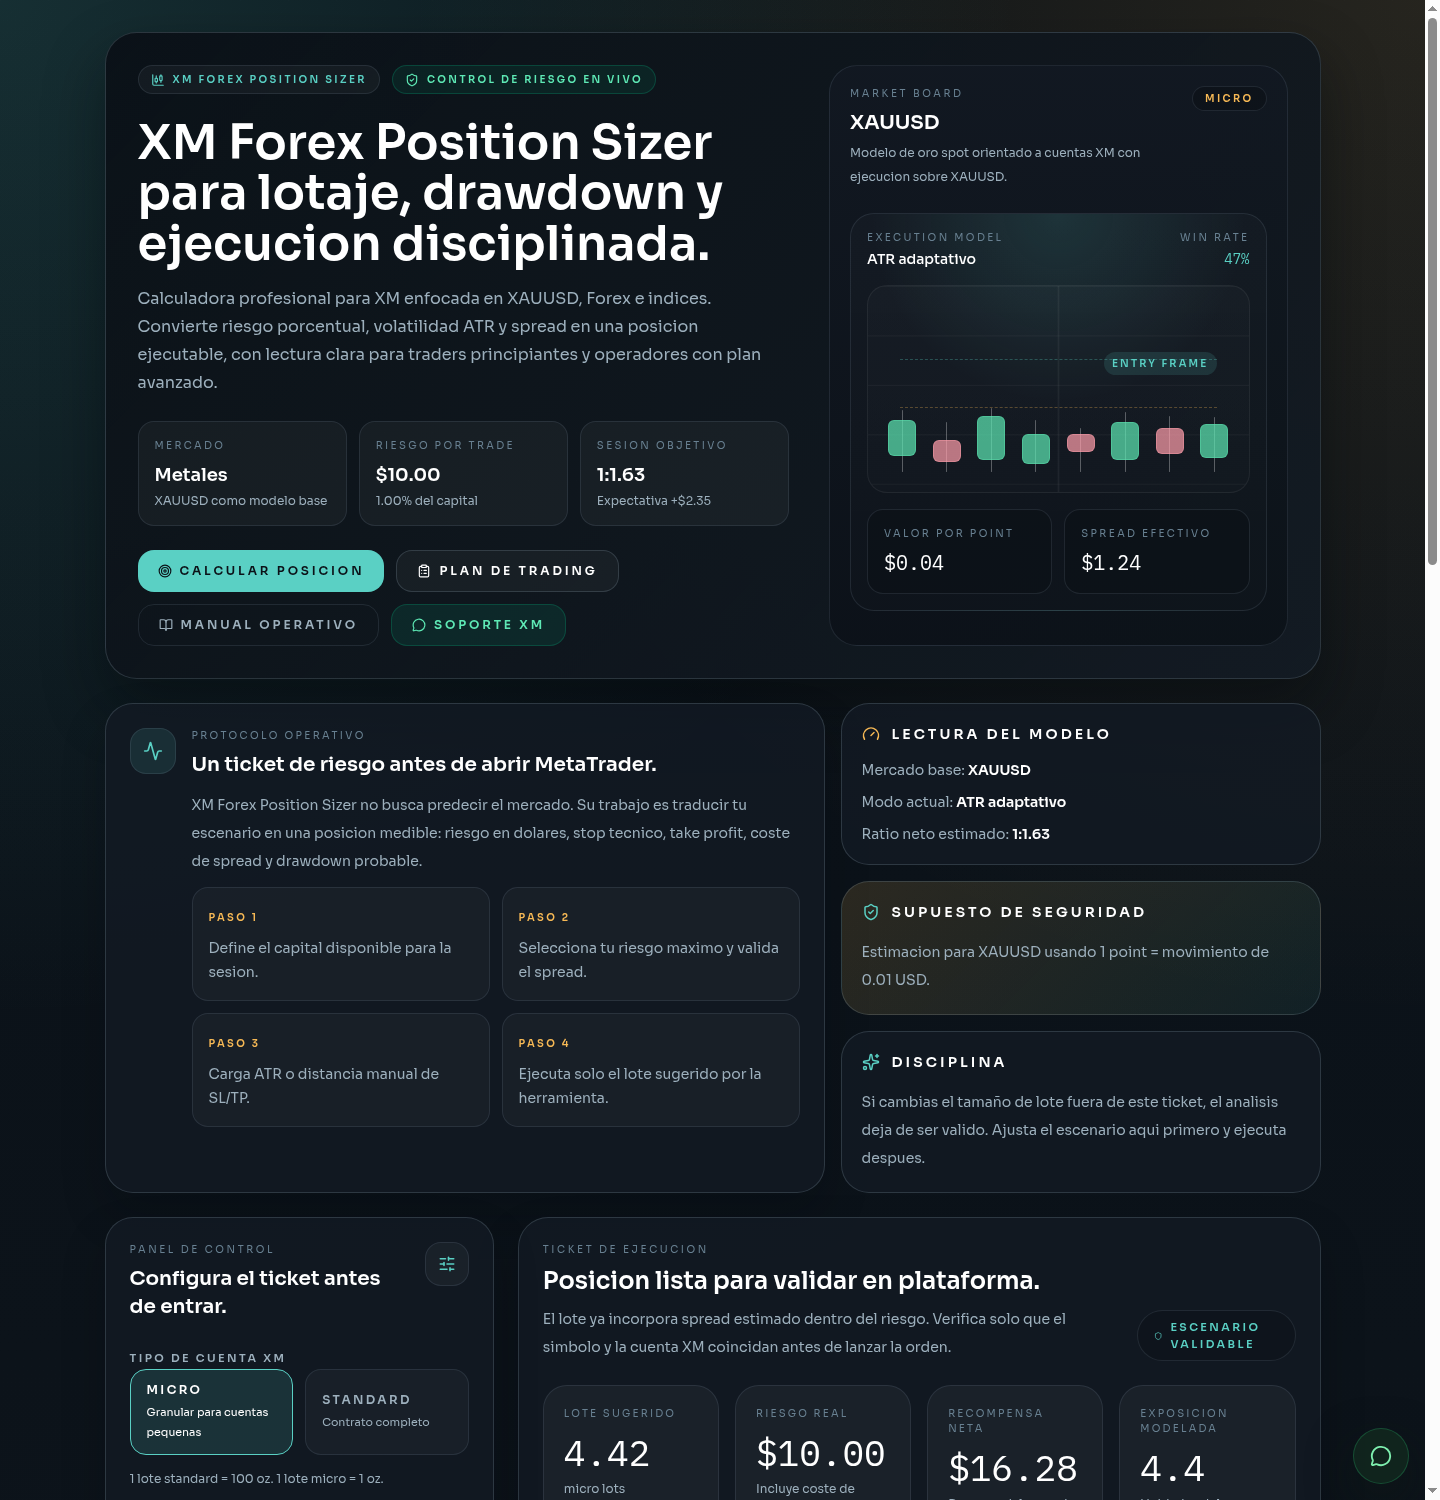
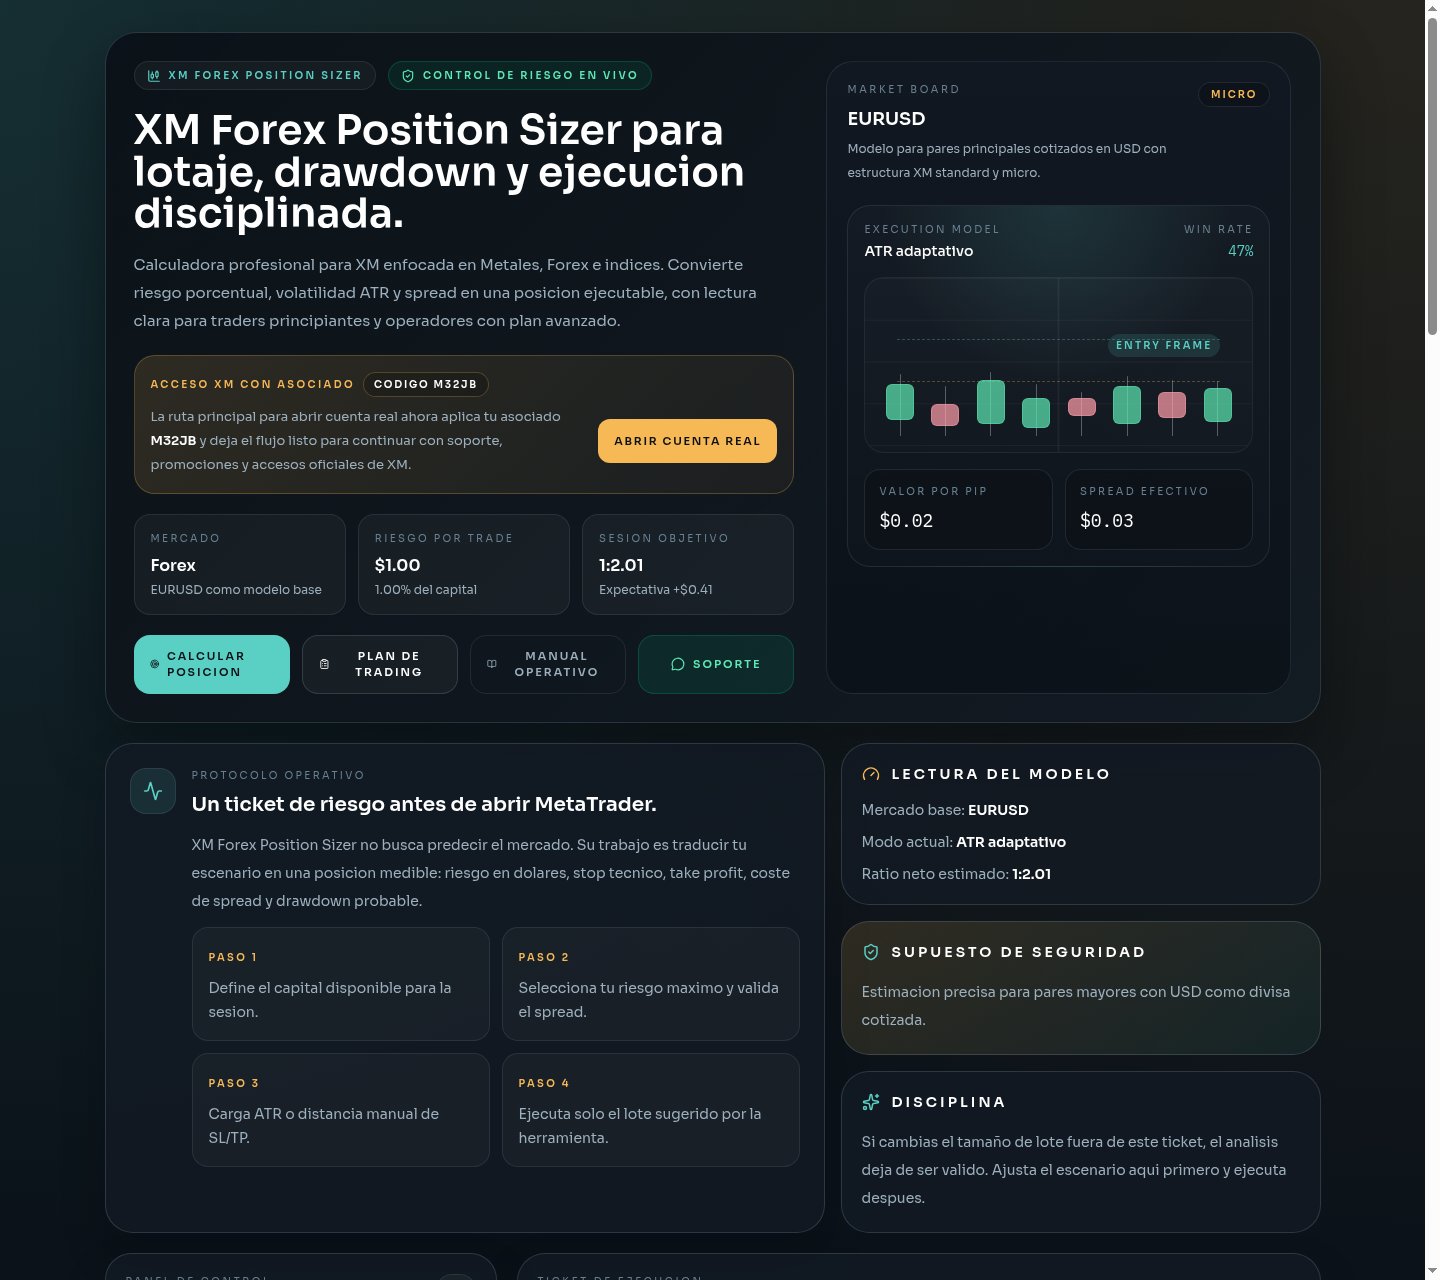
Actualizando el readme

diff --git a/README.md b/README.md
@@ -1,57 +1,74 @@
 # XM Forex Position Sizer
 
-Calculadora web para traders que operan con XM y necesitan convertir un escenario de mercado en un ticket de riesgo ejecutable. La herramienta estima lote sugerido, stop loss, take profit, coste de spread, drawdown probable, expectativa y progreso hacia una meta de capital.
+Calculadora web pública para traders que operan con XM y necesitan convertir un escenario de mercado en un ticket de riesgo ejecutable. La app estima lote sugerido, stop loss, take profit, coste de spread, drawdown probable, expectativa y ritmo necesario para llegar a una meta de capital.
 
 Sitio publicado: [xmsizer.vercel.app](https://xmsizer.vercel.app/)
 
-![Vista principal](./public/preview-desktop.png)
+## Vista actual
 
-![Vista móvil](./public/preview-mobile.png)
+![Vista principal desktop](./public/preview-desktop.png)
 
-## Enfoque del proyecto
+![Vista principal móvil](./public/preview-mobile.png)
 
-- Branding unificado como `XM Forex Position Sizer` en interfaz, reporte copiable, metadatos y despliegue.
-- Diseño orientado a terminal de trading: lectura rápida, contraste alto, métricas clave arriba y acciones operativas visibles.
-- Flujo de trabajo separado por ventanas completas para `Plan de trading` y `Manual operativo`, sin modales superpuestos al dashboard.
-- Soporte para cuentas XM `micro` y `standard`.
-- Modelos base por mercado:
-  - `Forex`: referencia tipo `EURUSD`.
-  - `Metales`: referencia tipo `XAUUSD`.
-  - `Índices`: referencia tipo `US30`.
-- SEO, Open Graph, Twitter Cards, favicon, `robots.txt`, `sitemap.xml`, `manifest` y cabeceras de seguridad para Vercel.
+## Qué es esta herramienta
+
+- Es una herramienta de acceso libre, sin backend y sin registro obligatorio.
+- Usa `XM Forex Position Sizer` como marca unificada en interfaz, metadatos, Open Graph y despliegue.
+- Está orientada a cuentas XM `micro` y `standard`.
+- Trabaja con tres perfiles base de mercado:
+  - `Metales`: referencia `XAUUSD`.
+  - `Forex`: referencia `EURUSD`.
+  - `Índices`: referencia `US30`.
+- Separa la experiencia en tres capas:
+  - `Dashboard` para cálculo operativo.
+  - `Plan de trading` para fijar capital, riesgo y objetivo mensual.
+  - `Manual operativo` para explicar el uso y los errores comunes.
+- Incluye un `Directorio XM` con presentación de XM, accesos oficiales y rutas de apoyo.
 
 ## Qué calcula
 
-- Riesgo por trade en USD a partir del capital y porcentaje de riesgo.
+- Riesgo por trade en USD a partir de capital y porcentaje de riesgo.
 - Lote sugerido considerando spread estimado dentro del riesgo.
-- Stop loss y take profit desde ATR o desde un modo manual.
+- Stop loss y take profit desde `ATR adaptativo` o modo `Manual`.
 - Ratio técnico y ratio neto.
 - Coste del spread y reward neto.
-- Drawdown probable ante una racha de pérdidas.
+- Drawdown probable ante rachas de pérdidas.
 - Kelly sugerido, expectativa por trade y trades estimados para llegar a la meta.
-- Presupuesto diario de pérdida según el plan de trading guardado.
+- Presupuesto diario de pérdida según el plan guardado.
 
-## Flujo de uso actual
+## Flujo de uso
 
-1. Abre `Plan de trading` para fijar capital, riesgo base, mercado, cuenta y meta mensual.
-2. Guarda ese perfil en local y aplícalo al dashboard cuando quieras reiniciar la sesión desde una base consistente.
-3. Ajusta en el panel principal el escenario vivo: `ATR`, `spread`, modo `ATR` o `Manual`, `win rate` y objetivo de equity.
-4. Revisa ticket, analítica de supervivencia y bitácora antes de ejecutar.
-5. Usa `Manual operativo` como referencia extensa del flujo, fórmulas y errores comunes.
+1. Define el plan base en `Plan de trading`.
+2. Aplica ese perfil al dashboard para arrancar cada sesión desde una base consistente.
+3. Ajusta mercado, tipo de cuenta, `ATR`, spread, win rate y modo de cálculo.
+4. Revisa ticket, guardrails, analítica de supervivencia y bitácora.
+5. Si necesitas contexto comercial u operativo de XM, abre el `Directorio XM`.
 
-## Para quién sirve
+## Enlaces XM con código de socio
 
-### Trader principiante
+La aplicación expone estas rutas afiliadas desde [`src/lib/xmAffiliate.ts`](./src/lib/xmAffiliate.ts) bajo el código de socio `M32JB`.
 
-- Operar cuenta micro con control más fino.
-- Aprender a no sobredimensionar una posición.
-- Validar el impacto real del spread antes de abrir la orden.
+### Inicio y cuentas
 
-### Trader con más experiencia
+- [Página de inicio](https://clicks.pipaffiliates.com/c?c=1218607&l=es&p=0): entrada general a XM en español.
+- [Abrir cuenta real](https://clicks.pipaffiliates.com/c?c=1218607&l=es&p=1): ruta principal usada por la app.
+- [Abrir cuenta demo](https://clicks.pipaffiliates.com/c?c=1218607&l=es&p=5): práctica antes de fondear.
+- [Tipos de cuenta](https://clicks.pipaffiliates.com/c?c=1218607&l=es&p=2): comparativo para alinear micro o standard.
 
-- Cruzar win rate esperado con reward neto.
-- Comparar escenarios ATR vs manual.
-- Ver drawdown, expectativa y límite diario desde el mismo panel.
+### Plataformas y acceso
+
+- [Acceso usuarios](https://clicks.pipaffiliates.com/c?c=1218607&l=es&p=22): ingreso al área de usuario.
+- [MetaTrader 5 (MT5)](https://clicks.pipaffiliates.com/c?c=1218607&l=es&p=20): descarga y acceso directo a plataforma.
+- [App de XM](https://clicks.pipaffiliates.com/c?c=1218607&l=es&p=17): aplicación oficial de XM.
+- [Calculadoras forex de XM](https://clicks.pipaffiliates.com/c?c=1218607&l=es&p=14): complemento para contrastar lotaje y margen.
+
+### Aprendizaje y soporte
+
+- [Formación de trading](https://clicks.pipaffiliates.com/c?c=1218607&l=es&p=7): recursos educativos oficiales.
+- [Promociones y bonos](https://clicks.pipaffiliates.com/c?c=1218607&l=es&p=6): campañas y beneficios activos.
+- [Atención al cliente](https://clicks.pipaffiliates.com/c?c=1218607&l=es&p=18): soporte oficial de XM.
+- [Copy trading](https://clicks.pipaffiliates.com/c?c=1218607&l=es&p=3901): acceso a la oferta de copy trading.
+- [Acerca de XM](https://clicks.pipaffiliates.com/c?c=1218607&l=es&p=8): información general del broker.
 
 ## Stack real del repositorio
 
@@ -68,6 +85,7 @@ No hay backend ni variables de entorno obligatorias para correr el proyecto en l
 ```text
 .
 ├── index.html
+├── metadata.json
 ├── vercel.json
 ├── public/
 │   ├── favicon.svg
@@ -77,28 +95,38 @@ No hay backend ni variables de entorno obligatorias para correr el proyecto en l
 │   ├── robots.txt
 │   ├── site.webmanifest
 │   └── sitemap.xml
+├── scripts/
+│   └── logic-smoke.ts
 └── src/
     ├── App.tsx
     ├── components/
-    │   ├── TradingPlanWorkspace.tsx
-    │   ├── TechnicalManual.tsx
+    │   ├── Header.tsx
     │   ├── ConfigPanel.tsx
     │   ├── ResultsDisplay.tsx
     │   ├── AnalyticsPanel.tsx
-    │   └── HistoryPanel.tsx
-    ├── hooks/useRiskCalculator.ts
-    ├── lib/marketProfiles.ts
-    ├── lib/tradingPlan.ts
-    ├── lib/persistence.ts
+    │   ├── HistoryPanel.tsx
+    │   ├── XMInfoSection.tsx
+    │   ├── AffiliateSection.tsx
+    │   ├── XMDirectoryModal.tsx
+    │   ├── TradingPlanWorkspace.tsx
+    │   └── TechnicalManual.tsx
+    ├── hooks/
+    │   └── useRiskCalculator.ts
+    ├── lib/
+    │   ├── marketProfiles.ts
+    │   ├── persistence.ts
+    │   ├── tradingPlan.ts
+    │   └── xmAffiliate.ts
     └── types.ts
 ```
 
-## Lógica principal del proyecto
+## Lógica principal
 
-- `src/hooks/useRiskCalculator.ts`: convierte la configuración actual en ticket ejecutable, expectativa, drawdown y métricas de supervivencia.
-- `src/lib/tradingPlan.ts`: valida si el plan es aplicable en XM, calcula el lote estimado mínimo, genera sugerencias por mercado/cuenta y proyecta el ritmo diario de la meta.
-- `src/lib/persistence.ts`: sanitiza `config`, `plan` y `history` antes de leer o escribir en `localStorage`.
-- `src/App.tsx`: coordina persistencia, cálculo principal y navegación entre `dashboard`, `manual` y `plan`.
+- `src/hooks/useRiskCalculator.ts`: transforma la configuración actual en ticket, expectativa, drawdown y métricas de supervivencia.
+- `src/lib/tradingPlan.ts`: genera y valida el plan base según cuenta, mercado y meta mensual.
+- `src/lib/persistence.ts`: sanea `config`, `plan` y `history` antes de leer o escribir en `localStorage`.
+- `src/lib/xmAffiliate.ts`: centraliza los enlaces XM usados por la interfaz y el directorio.
+- `src/App.tsx`: coordina persistencia, navegación de vistas y apertura del `Directorio XM`.
 
 ## Persistencia local
 
@@ -108,7 +136,7 @@ La app guarda tres bloques en `localStorage`:
 - `xm_forex_sizer_plan`
 - `xm_forex_sizer_history`
 
-Cada bloque pasa por saneamiento defensivo antes de rehidratarse para evitar estados rotos o valores fuera de rango.
+Cada bloque se sanea antes de rehidratarse para evitar estados rotos o valores fuera de rango.
 
 ## Uso local
 
@@ -125,39 +153,16 @@ La app queda disponible en `http://localhost:3000` o en el siguiente puerto libr
 - `npm run lint`: chequeo TypeScript sin emitir archivos.
 - `npm run build`: build de producción.
 - `npm run preview`: vista previa del build.
-- `npm run check`: corre `lint` y `build`.
-
-## Cómo usar la calculadora
-
-1. Define el capital disponible.
-2. Selecciona cuenta `micro` o `standard`.
-3. Elige mercado: `metals`, `forex` o `indices`.
-4. Ajusta riesgo, win rate y spread.
-5. Usa `ATR adaptativo` o `Manual`.
-6. Revisa el ticket de ejecución y copia el reporte si vas a compartirlo.
-7. Guarda la sesión en bitácora si quieres comparar escenarios.
-
-## Validaciones importantes de la app
-
-- El plan de trading se evalúa contra mínimos operativos de XM antes de permitir su aplicación.
-- El progreso a meta se calcula desde el capital base del plan, no como simple proporción `capital / target`.
-- La lectura de `trades por día` distingue entre `0` trades necesarios y ausencia de expectativa positiva, para no confundir objetivo cumplido con inviabilidad.
-- Si cambias de mercado, la app recarga `ATR`, `spread`, `SL`, `TP` y `RRR` base de ese perfil antes de recalcular.
+- `npm run test:logic`: prueba rápida de la lógica principal.
+- `npm run check`: ejecuta `lint` y `build`.
 
 ## Supuestos importantes
 
 - Los cálculos son un modelo operativo, no una promesa de resultados.
 - `Forex` está orientado a pares principales cotizados en USD.
 - `Metales` usa como referencia `XAUUSD`.
-- `Índices` usa un modelo conservador y requiere validar el valor por punto del símbolo real en XM.
+- `Índices` usan un modelo conservador y requieren validar el valor por punto del símbolo real en XM.
 - Si cambian spread, volatilidad o estructura del instrumento, vuelve a calcular antes de entrar.
-
-## Recomendaciones operativas
-
-- Para aprendizaje, empieza en cuenta micro y riesgo de `0.5%` a `1.0%`.
-- Usa el win rate como dato estadístico propio, no como intuición.
-- Si el ratio neto sale débil, no fuerces la operación cambiando el lote.
-- Guarda la sesión antes de ejecutar y compárala con el resultado real después.
 
 ## Licencia y atribución
 
